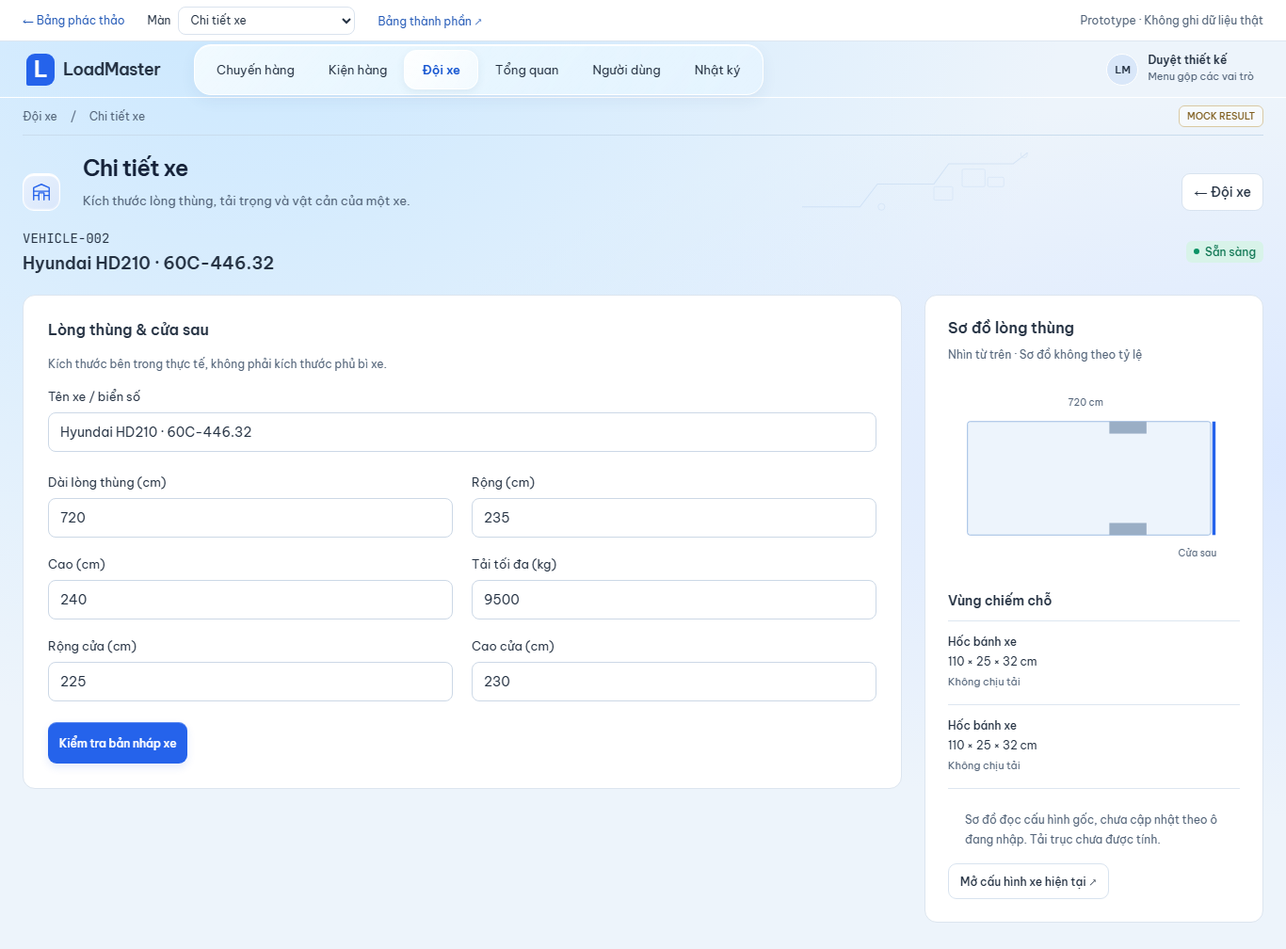
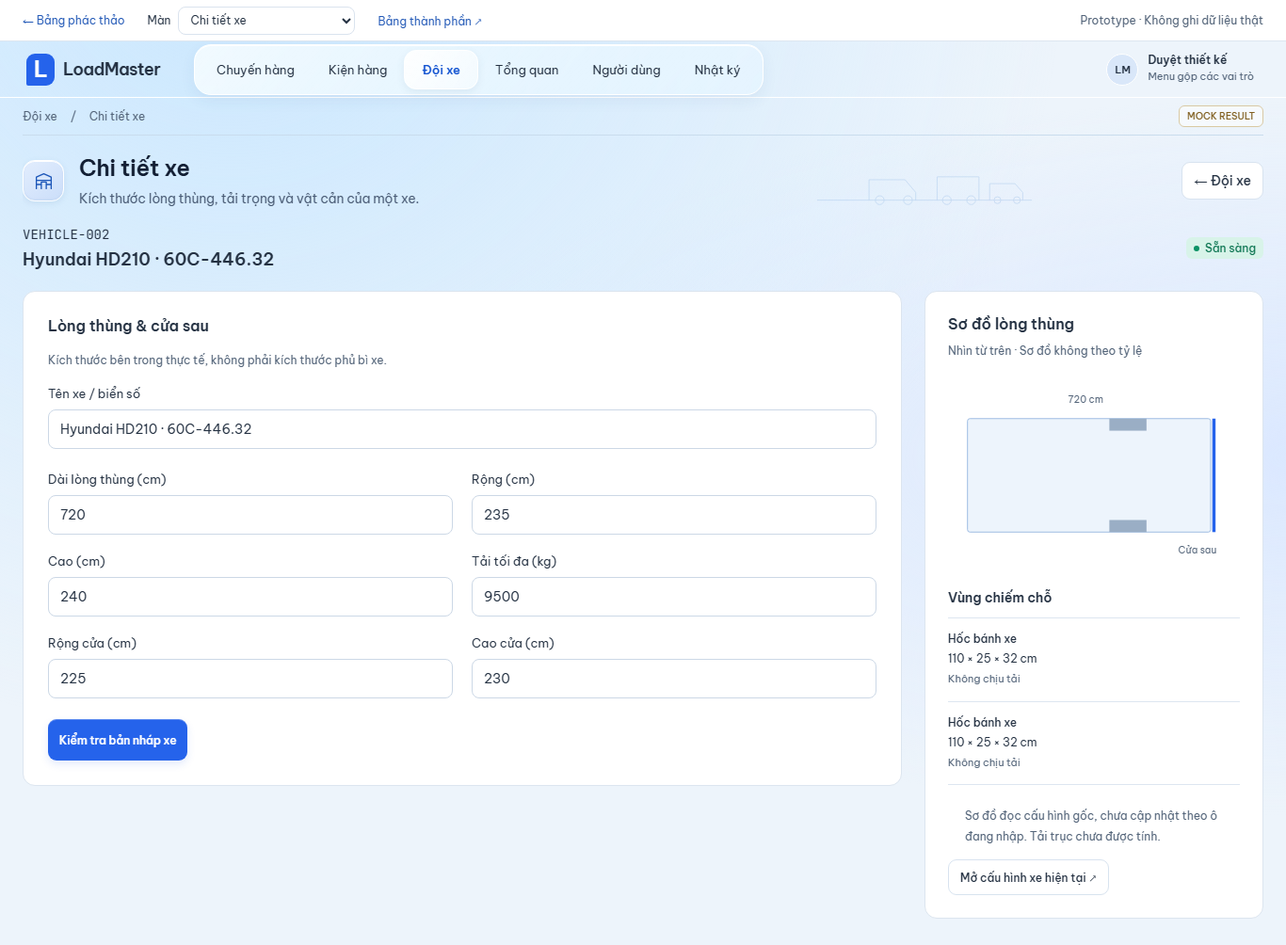
design(v2): nhận diện theo hoạ tiết, tăng tương phản và chiều sâu
Vòng polish thứ hai trên bố cục đã chốt. Không đổi layout, IA,
navigation hay bảng.

Gom .suite-title

Hai rule cùng tên nằm cách nhau bốn chục dòng: rule trên đặt
align-items flex-start, rule dưới ghi đè thành flex-end, và gap 14px bị
thay bằng 24px. Icon hero vì thế tụt xuống chân khối chữ. Nay còn một
rule duy nhất, căn giữa, có chú thích nói rõ vì sao.

Nhận diện màn bằng hình, không bằng màu

Mỗi nhóm màn một hoạ tiết SVG riêng: đoàn xe cho Đội xe, cột và đường
xu hướng cho Tổng quan, chồng thùng cho Kiện hàng, nhóm người và khiên
cho Người dùng, dòng thời gian và trang ghi cho Nhật ký. Icon hero giữ
nguyên tông xanh thương hiệu ở cả mười sáu màn — xanh lá và hổ phách đã
mang nghĩa trạng thái, mượn chúng làm nhận diện màn sẽ làm nhoè nghĩa.
Thêm data-screen trên hero để tinh chỉnh từng màn mà không cần layout riêng.

Hoạ tiết trước đây mờ 17% nên gần như biến mất trên nền xanh; nay 20–26%
tuỳ màn và cao 62px để không bị khung hero cắt mất.

Tương phản

Giãn thang mực và tăng độ đậm năm cặp tint khoảng 12%. Trước đây nền
nhạt, kính nhạt, tint nhạt và chữ nhạt cộng lại thành một màn trắng đều.
Bảng màu không đổi, chỉ phân bố lại tương phản.

Hero icon 40 lên 44px có viền trong và bóng rất nhẹ; ô số liệu có nền
kính dày hơn, icon 36 lên 41px.

Chiều sâu

Dòng đang chọn nền xanh 7,5% và mép trái dày hơn. Inspector nổi hơn
bảng rõ hơn, đầu panel có nền chuyển sắc riêng. Thanh tiến độ có rãnh
lõm và phần đã chạy chuyển sắc nhẹ theo đúng xanh thương hiệu.
[…]

diff --git a/design/v2/screen-ui.js b/design/v2/screen-ui.js
@@ -60,6 +60,17 @@ export const metricTile = ({ tone = 'blue', icon: name, value, label, note = '',
     : `<div class="kpi-tile">${body}</div>`;
 };
 export const metricGrid = items => `<section class="kpi-grid" aria-label="Số liệu tổng hợp">${items.map(metricTile).join('')}</section>`;
+const motifs = {
+  route: '<path d="M-10 96h96l26-34h84l22-30h96l28-22h114"/><rect x="238" y="40" width="34" height="26" rx="2"/><rect x="276" y="52" width="24" height="14" rx="2"/><rect x="196" y="66" width="28" height="20" rx="2"/><circle cx="118" cy="96" r="5"/><circle cx="330" cy="18" r="5"/>',
+  fleet: '<path d="M-10 100h440"/><path d="M96 100V58h74l22 26v16"/><circle cx="118" cy="100" r="9"/><circle cx="176" cy="100" r="9"/><path d="M236 100V52h86v48"/><circle cx="256" cy="100" r="9"/><circle cx="306" cy="100" r="9"/><path d="M344 100V66h52l16 18v16"/><circle cx="360" cy="100" r="7"/><circle cx="400" cy="100" r="7"/>',
+  chart: '<path d="M8 104h404"/><rect x="40" y="70" width="26" height="34"/><rect x="82" y="52" width="26" height="52"/><rect x="124" y="60" width="26" height="44"/><rect x="166" y="30" width="26" height="74"/><path d="M212 82l34-22 30 16 34-34 32 12 38-30"/><circle cx="212" cy="82" r="4"/><circle cx="380" cy="24" r="4"/>',
+  cargo: '<rect x="40" y="56" width="52" height="46"/><rect x="100" y="70" width="38" height="32"/><rect x="152" y="40" width="60" height="62"/><path d="M152 62h60M182 40v62"/><rect x="224" y="62" width="44" height="40"/><rect x="280" y="48" width="56" height="54"/><path d="M280 72h56"/><path d="M8 104h404"/>',
+  users: '<circle cx="70" cy="48" r="16"/><path d="M42 100c0-16 13-26 28-26s28 10 28 26"/><circle cx="160" cy="62" r="13"/><path d="M137 104c0-13 10-21 23-21s23 8 23 21"/><circle cx="246" cy="44" r="13"/><path d="M223 90c0-13 10-21 23-21s23 8 23 21"/><path d="M86 56h60M176 60l56-12"/><path d="M300 34v40l30 16 30-16V34l-30-16Z"/>',
+  audit: '<path d="M30 20v88"/><path d="M30 34h18M30 56h18M30 78h18M30 100h18"/><rect x="82" y="22" width="86" height="66" rx="3"/><path d="M96 42h58M96 56h58M96 70h34"/><rect x="200" y="34" width="86" height="66" rx="3"/><path d="M214 54h58M214 68h58M214 82h34"/><path d="M312 56h46M338 38l24 18-24 18"/>',
+};
+// Mỗi màn chọn một hoạ tiết; màn không khai báo dùng hoạ tiết tuyến mặc định.
+const screenMotif = { fleet: 'fleet', vehicle: 'fleet', dashboard: 'chart', cargo: 'cargo', users: 'users', profile: 'users', audit: 'audit' };
+const heroMotif = screen => `<svg class="hero-motif" viewBox="0 0 420 120" fill="none" stroke="currentColor" stroke-width="1.6" stroke-linecap="round" stroke-linejoin="round" aria-hidden="true">${motifs[screenMotif[screen] ?? 'route']}</svg>`;
 export function reviewBar(screen) {
   return `<div class="suite-review"><a href="./sketchbook.html">← Bảng phác thảo</a><label>Màn <select id="screen-picker">${Object.entries(screenNames).map(([key, label]) => `<option value="${key}" ${key === screen ? 'selected' : ''}>${label}</option>`).join('')}</select></label><a href="${href('components')}">Bảng thành phần ↗</a><span>Prototype · Không ghi dữ liệu thật</span></div>`;
 }
@@ -78,9 +89,9 @@ export function shell(screen, content, action = '') {
   const trail = parentLabel && parent !== screen
     ? `<a href="${href(parent)}">${parentLabel}</a><span>/</span><span>${screenNames[screen]}</span>`
     : `<span>${screenNames[screen]}</span>`;
-  const motif = '<svg class="hero-motif" viewBox="0 0 420 120" fill="none" aria-hidden="true"><path d="M-10 96h96l26-34h84l22-30h96l28-22h114" stroke="currentColor" stroke-width="1.5"/><rect x="238" y="40" width="34" height="26" rx="2" stroke="currentColor"/><rect x="276" y="52" width="24" height="14" rx="2" stroke="currentColor"/><rect x="196" y="66" width="28" height="20" rx="2" stroke="currentColor"/><circle cx="118" cy="96" r="5" stroke="currentColor"/><circle cx="330" cy="18" r="5" stroke="currentColor"/></svg>';
+  const motif = heroMotif(screen);
   const lede = screenLede[screen] ? `<p class="suite-lede">${screenLede[screen]}</p>` : '';
-  return `${reviewBar(screen)}<div class="suite-shell"><header class="suite-rail"><a class="brand" href="${href('trips')}"><span class="brand-mark">L</span>LoadMaster</a><nav class="glass-nav suite-nav" aria-label="Điều hướng chính">${navPrimary.map(([key, label]) => `<a href="${href(key)}" ${key === parent ? 'aria-current="page"' : ''}>${label}</a>`).join('')}</nav><a class="suite-person" href="${href('profile')}"><span class="avatar">LM</span><span><strong>Duyệt thiết kế</strong><small>Menu gộp các vai trò</small></span></a></header><div class="suite-work"><nav class="suite-top" aria-label="Đường dẫn"><span class="breadcrumb">${trail}</span>${badge('MOCK RESULT', 'mock')}</nav><main class="suite-main"><header class="suite-title">${motif}<span class="hero-icon">${icon(screenIcon[screen] ?? 'grid', 22)}</span><div class="hero-text"><h1>${screenNames[screen]}</h1>${lede}</div><div class="hero-actions">${action}</div></header>${content}</main></div></div>`;
+  return `${reviewBar(screen)}<div class="suite-shell"><header class="suite-rail"><a class="brand" href="${href('trips')}"><span class="brand-mark">L</span>LoadMaster</a><nav class="glass-nav suite-nav" aria-label="Điều hướng chính">${navPrimary.map(([key, label]) => `<a href="${href(key)}" ${key === parent ? 'aria-current="page"' : ''}>${label}</a>`).join('')}</nav><a class="suite-person" href="${href('profile')}"><span class="avatar">LM</span><span><strong>Duyệt thiết kế</strong><small>Menu gộp các vai trò</small></span></a></header><div class="suite-work"><nav class="suite-top" aria-label="Đường dẫn"><span class="breadcrumb">${trail}</span>${badge('MOCK RESULT', 'mock')}</nav><main class="suite-main"><header class="suite-title" data-screen="${screen}">${motif}<span class="hero-icon">${icon(screenIcon[screen] ?? 'grid', 21)}</span><div class="hero-text"><h1>${screenNames[screen]}</h1>${lede}</div><div class="hero-actions">${action}</div></header>${content}</main></div></div>`;
 }
 export function mobileShell(screen, content, footer = '') {
   return `${reviewBar(screen)}<div class="mobile-stage"><aside class="mobile-notes"><span class="suite-caption">Phác thảo mobile / Android trước</span><h1>${screenNames[screen]}</h1><p>Cùng nhận diện với web. Một việc chính trên mỗi màn, nút lớn, không cần thao tác hover.</p><nav>${link('Tài xế', 'driver')}${link('Kho', 'warehouse')}${link('Gửi lại', 'queue')}</nav><small>Các thao tác chỉ đổi trạng thái mẫu trong trang. Chưa là app Flutter và chưa gửi dữ liệu.</small></aside><div class="phone-app"><header class="phone-header"><a href="${href(screen === 'queue' ? 'driver' : 'trips')}" aria-label="Quay lại">←</a><strong>${screenNames[screen]}</strong>${badge('Mẫu', 'info')}</header>${content}${footer ? `<footer class="phone-actions">${footer}</footer>` : ''}</div></div>`;

diff --git a/design/v2/screens.css b/design/v2/screens.css
@@ -1,26 +1,36 @@
 :where(.screen-suite) {
-  --ink-strong: #16233a; --ink-1: #243142; --ink-2: #51627a; --ink-3: #7a8a9f;
-  --tint-blue: #e6effc; --tint-blue-fg: #1d54ad;
-  --tint-green: #dcf2e7; --tint-green-fg: #0f7454;
-  --tint-amber: #fdeed2; --tint-amber-fg: #8a5606;
-  --tint-violet: #eae9fb; --tint-violet-fg: #4b45a6;
-  --tint-slate: #e9eef5; --tint-slate-fg: #566f8c;
+  --ink-strong: #131f34; --ink-1: #1f2c3e; --ink-2: #4a5c75; --ink-3: #71829a;
+  --tint-blue: #dce8fb; --tint-blue-fg: #1a4da3;
+  --tint-green: #d1ecde; --tint-green-fg: #0c6b4c;
+  --tint-amber: #fce6c2; --tint-amber-fg: #85500a;
+  --tint-violet: #e2e0fa; --tint-violet-fg: #443e9e;
+  --tint-slate: #e1e8f1; --tint-slate-fg: #4e6681;
 }
 .screen-suite { background: #edf3fb; color: var(--ink); font-size: 14px; }
 
 /* ---- Hero dùng chung: icon nhận diện màn + tiêu đề + hoạ tiết tuyến rất nhẹ ---- */
-.suite-title { position: relative; display: flex; align-items: flex-start; gap: 14px; overflow: hidden; }
-.hero-icon { display: grid; place-items: center; width: 40px; height: 40px; margin-top: 1px; border-radius: 12px; border: 1px solid #fff; background: linear-gradient(140deg,#e9f1fd,#d9e7fb); box-shadow: var(--glass-edge); color: var(--blue); flex-shrink: 0; }
+/* Một nguồn duy nhất cho hàng tiêu đề. Trước đây rule này bị một rule khác phía
+   dưới ghi đè align-items thành flex-end, nên icon tụt xuống chân khối chữ. */
+.suite-title {
+  position: relative; display: flex; align-items: center; justify-content: space-between;
+  gap: 16px; margin-bottom: 18px; overflow: hidden;
+}
+.suite-title > .hero-text { flex: 1 1 auto; }
+.hero-icon { display: grid; place-items: center; width: 44px; height: 44px; border-radius: 13px; border: 1px solid #ffffff; background: linear-gradient(140deg,#e2edfd,#cbdefa); box-shadow: inset 0 1px 0 #fff,inset 0 -1px 2px #b7cdec80,0 2px 6px #4e79a51f; color: #1c56b8; flex-shrink: 0; }
 .hero-text { flex: 1; min-width: 0; }
-.hero-text h1 { color: var(--ink-strong); }
+.hero-text h1 { color: var(--ink-strong); letter-spacing: -.35px; }
 .hero-actions { position: relative; z-index: 1; display: flex; align-items: center; gap: 10px; flex-shrink: 0; }
-.hero-motif { position: absolute; right: 190px; top: -14px; width: 300px; height: 92px; color: #6f9fd8; opacity: .17; pointer-events: none; }
+/* Hoạ tiết nhận diện màn: thấy được khi nhìn, không tranh chỗ với tiêu đề. */
+.hero-motif { position: absolute; right: 210px; top: 50%; translate: 0 -50%; width: 300px; height: 62px; color: #5b93d4; opacity: .26; pointer-events: none; }
+[data-screen=dashboard] .hero-motif { opacity: .24; }
+[data-screen=audit] .hero-motif { opacity: .2; right: 230px; }
+[data-screen=users] .hero-motif { opacity: .22; }
 
 /* ---- Ô số liệu dùng chung cho mọi màn có phần tổng hợp ---- */
 .kpi-grid { display: grid; grid-template-columns: repeat(auto-fit,minmax(200px,1fr)); gap: 12px; margin-bottom: 16px; }
 .kpi-action { text-align: left; cursor: pointer; transition: border-color 140ms, box-shadow 140ms; }
-.kpi-action:hover { border-color: #bed4f2; box-shadow: var(--glass-edge),0 8px 20px #4e79a520; }
-.kpi-tile small { display: block; margin-top: 2px; font-size: 11px; color: var(--ink-3); line-height: 1.5; }
+.kpi-action:hover { border-color: #b6cff2; box-shadow: var(--glass-edge),0 10px 24px #4e79a52e; }
+.kpi-tile small { display: block; margin-top: 3px; font-size: 11.5px; color: var(--ink-3); line-height: 1.5; }
 .kpi-icon.blue { background: var(--tint-blue); color: var(--tint-blue-fg); }
 .kpi-icon.green { background: var(--tint-green); color: var(--tint-green-fg); }
 .kpi-icon.amber { background: var(--tint-amber); color: var(--tint-amber-fg); }
@@ -46,9 +56,8 @@
 .suite-work { min-width: 0; }
 .suite-top { display: flex; align-items: center; justify-content: space-between; min-height: 40px; margin: 0 24px; border-bottom: 1px solid #c9dced; font-size: 12px; color: var(--muted); }
 .suite-main { padding: 18px 24px 28px; }
-.suite-title { display: flex; justify-content: space-between; align-items: flex-end; margin-bottom: 20px; gap: 24px; }
 .suite-title h1 { font-size: 24px; margin: 0; }
-.suite-lede { margin: 6px 0 0; max-width: 62ch; color: var(--muted); font-size: 13px; line-height: 1.7; }
+.suite-lede { margin: 5px 0 0; max-width: 66ch; color: var(--ink-2); font-size: 13.5px; line-height: 1.62; }
 .suite-title .button { min-height: 40px; font-size: 14px; flex-shrink: 0; }
 /* Khối tổng hợp dùng chung: kính, số cùng màu mực, đơn vị nhỏ hơn. */
 .summary-block { display: flex; padding: 18px 24px; border: 1px solid #fff; border-radius: 16px; background: var(--glass-fill); box-shadow: var(--glass-edge),var(--glass-lift); margin-bottom: 22px; }
@@ -66,12 +75,12 @@
 /* ---- Danh sách chuyến ---- */
 /* KPI: ba ô đếm được + một ô ngữ cảnh. Ngày không phải số đo nên nhẹ hơn hẳn. */
 .kpi-grid.kpi-4 { grid-template-columns: repeat(3,minmax(0,1fr)) minmax(300px,1.1fr); }
-.kpi-tile { display: flex; align-items: center; gap: 14px; min-height: 84px; padding: 15px 18px; border: 1px solid white; border-radius: 15px; background: var(--glass-fill); backdrop-filter: blur(9px) saturate(1.35); box-shadow: var(--glass-edge),var(--glass-lift); }
+.kpi-tile { display: flex; align-items: center; gap: 14px; min-height: 84px; padding: 14px 18px; border: 1px solid #ffffff; border-radius: 15px; background: linear-gradient(118deg,#ffffffc4,#ffffff5c); backdrop-filter: blur(10px) saturate(1.45); box-shadow: var(--glass-edge),0 7px 18px #4e79a51c; }
 .kpi-tile > div { display: grid; gap: 3px; min-width: 0; }
 .kpi-tile strong { color: var(--ink-strong); font-size: 26px; font-weight: 600; font-variant-numeric: tabular-nums; line-height: 1.1; }
 .kpi-tile strong em { margin-left: 5px; font-style: normal; font-size: 14px; font-weight: 400; color: var(--ink-2); }
 .kpi-tile span { font-size: 13px; color: var(--ink-2); line-height: 1.45; }
-.kpi-icon { display: grid; place-items: center; width: 36px; height: 36px; border-radius: 10px; flex-shrink: 0; }
+.kpi-icon { display: grid; place-items: center; width: 41px; height: 41px; border-radius: 12px; box-shadow: inset 0 0 0 1px #ffffff9c; flex-shrink: 0; }
 /* Ô ngữ cảnh: cùng hệ kính với ba ô kia nhưng nhạt hơn một bậc — nó là ngữ
    cảnh của kỳ báo cáo, không phải một chỉ số đọc được. */
 .kpi-context { background: linear-gradient(115deg,#ffffff7d,#ffffff2b); box-shadow: var(--glass-lift); }

diff --git a/design/v2/desktop-admin.js b/design/v2/desktop-admin.js
@@ -20,7 +20,7 @@ export function audit(){
   $('screen-root').innerHTML=shell('audit',metricGrid([{ tone:'blue', icon:'log', value:events.length, label:'Sự kiện trong snapshot', note:'Lịch sử mẫu neo ngày 22/09/2026' },{ tone:'slate', icon:'calendar', value:events.filter(e=>e.at.slice(0,10)===latestDay).length, label:`Sự kiện ngày ${latestDay.split('-').reverse().join('/')}`, note:'Ngày gần nhất có ghi nhận' },{ tone:'slate', icon:'clock', value:dateTime(events[0].at).split(' ')[0], label:'Ghi nhận gần nhất', note:'Chỉ đọc · không phát sinh từ prototype' }])+`<section class="paper"><div class="list-tools"><label class="search">${icon('search',16)}<input id="audit-search" placeholder="Tìm mã chuyến hoặc người thực hiện…" aria-label="Tìm nhật ký"></label><label class="tool-field">Nhóm<select id="audit-group" aria-label="Lọc nhóm sự kiện"><option value="all">Mọi nhóm</option><option value="trip">Chuyến hàng</option><option value="loading">Xếp hàng</option><option value="delivery">Giao hàng</option><option value="user">Tài khoản</option><option value="revision">Duyệt phương án</option></select></label></div><div id="audit-table"></div><div class="pagination"><span id="audit-count" aria-live="polite"></span><button id="audit-prev" class="button secondary">← Trước</button><button id="audit-next" class="button secondary">Sau →</button></div></section>${notice('115 sự kiện có trong seed, neo ngày 22/09/2026. Đây là lịch sử mẫu, không phải nhật ký mới phát sinh từ các prototype.')} ${dialog('audit-detail','Chi tiết sự kiện','<div id="audit-detail-body"></div>')}`, badge('Chỉ đọc','neutral'));
   const actor=e=>snapshot.users.find(u=>u.id===e.actorId)?.fullName??'Hệ thống';
   const roleOf=e=>{const u=snapshot.users.find(u=>u.id===e.actorId);return u?roleNames[u.role]:'Hệ thống';};
-  function render(){const filtered=events.filter(e=>normalize(e.target.id+' '+actor(e)+' '+actions[e.action]).includes(normalize($('audit-search').value))&&($('audit-group').value==='all'||e.action.split('.')[0]===$('audit-group').value));const rows=filtered.slice(page*15,page*15+15);$('audit-table').innerHTML=table(['Thời gian','Người thực hiện','Hành động','Đối tượng'],rows.map(e=>`<tr><td class="time-cell"><strong>${dateTime(e.at).split(' ')[0]}</strong><small>${dateTime(e.at).split(' ').slice(1).join(' ')}</small></td><td><span class="row-title">${actor(e)}<small>${roleOf(e)}</small></span></td><td><span class="cell-lead"><span class="cell-thumb ${actionTone[e.action.split('.')[0]]?.[0]??'slate'}">${icon(actionTone[e.action.split('.')[0]]?.[1]??'log',16)}</span><span class="row-title">${actions[e.action]??e.action}</span></span></td><td><button class="row-title mono" data-event="${e.id}">${e.target.id}<small>Xem chi tiết →</small></button></td></tr>`).join('')||'<tr><td colspan="4" class="empty">Không có sự kiện phù hợp.</td></tr>');$('audit-count').textContent=`${filtered.length? page*15+1:0}–${Math.min(page*15+15,filtered.length)} / ${filtered.length} sự kiện`;$('audit-prev').disabled=page===0;$('audit-next').disabled=(page+1)*15>=filtered.length;}
+  function render(){const filtered=events.filter(e=>normalize(e.target.id+' '+actor(e)+' '+actions[e.action]).includes(normalize($('audit-search').value))&&($('audit-group').value==='all'||e.action.split('.')[0]===$('audit-group').value));const rows=filtered.slice(page*15,page*15+15);$('audit-table').innerHTML=table(['Thời gian','Người thực hiện','Hành động','Đối tượng'],rows.map(e=>`<tr><td class="time-cell"><strong>${dateTime(e.at).split(' ')[0]}</strong><small>${dateTime(e.at).split(' ').slice(1).join(' ')}</small></td><td><span class="cell-lead"><span class="cell-thumb slate small-thumb">${initials(actor(e))}</span><span class="row-title">${actor(e)}<small>${roleOf(e)}</small></span></span></td><td><span class="cell-lead"><span class="cell-thumb ${actionTone[e.action.split('.')[0]]?.[0]??'slate'}">${icon(actionTone[e.action.split('.')[0]]?.[1]??'log',16)}</span><span class="row-title">${actions[e.action]??e.action}</span></span></td><td><button class="cell-lead" data-event="${e.id}"><span class="cell-thumb ${e.target.id.startsWith('US-')?'slate':'blue'} small-thumb">${icon(e.target.id.startsWith('US-')?'user':'truck',15)}</span><span class="row-title mono">${e.target.id}<small>Xem chi tiết →</small></span></button></td></tr>`).join('')||'<tr><td colspan="4" class="empty">Không có sự kiện phù hợp.</td></tr>');$('audit-count').textContent=`${filtered.length? page*15+1:0}–${Math.min(page*15+15,filtered.length)} / ${filtered.length} sự kiện`;$('audit-prev').disabled=page===0;$('audit-next').disabled=(page+1)*15>=filtered.length;}
   $('audit-search').oninput=$('audit-group').onchange=()=>{page=0;render();};$('audit-prev').onclick=()=>{page--;render();};$('audit-next').onclick=()=>{page++;render();};$('audit-table').onclick=e=>{const b=e.target.closest('[data-event]');if(!b)return;const row=events.find(r=>r.id===b.dataset.event);$('audit-detail-body').innerHTML=`<p>${actions[row.action]} · ${actor(row)}</p><p>${dateTime(row.at)} · <span class="mono">${row.target.id}</span></p><h3>Dữ liệu ghi nhận từ snapshot</h3><pre class="event-json">${escape(JSON.stringify(row.params,null,2))}</pre>${notice('Tên trường kỹ thuật được giữ trong phần kiểm tra dữ liệu dành cho quản trị.')}`;$('audit-detail').showModal();};render();
 }
 export function profile(){

diff --git a/design/v2/desktop.css b/design/v2/desktop.css
@@ -18,10 +18,10 @@
 .context-chip { display: inline-flex; align-items: center; min-height: 38px; padding: 0 12px; border: 1px solid #cfdcea; border-radius: 8px; background: #fff; font-size: 13px; color: var(--ink-1); }
 .desktop-table-scroll { overflow-x: auto; position: relative; }
 .desktop-table { width: 100%; border-collapse: collapse; min-width: 560px; table-layout: auto; }
-.desktop-table th { width: auto !important; height: 40px; background: #f5f8fc; color: var(--ink-2); font-weight: 600; font-size: 12px; padding: 0 14px; text-align: left; white-space: nowrap; border-block: 1px solid #e4ebf3; }
+.desktop-table th { width: auto !important; height: 40px; background: #f2f6fc; color: var(--ink-2); font-weight: 600; font-size: 12px; padding: 0 14px; text-align: left; white-space: nowrap; border-block: 1px solid #dfe8f3; }
 .desktop-table td { padding: 10px 14px; font-size: 13px; line-height: 1.5; border-bottom: 1px solid #e9eef5; vertical-align: middle; }
 .desktop-table tr:last-child td { border-bottom: 0; }
-.desktop-table tbody tr:hover { background: #f7faff; }
+.desktop-table tbody tr:hover { background: #f4f8ff; }
 .desktop-table small { display: block; font-size: 12px; color: var(--ink-3); margin-top: 3px; max-width: 240px; line-height: 1.45; }
 .desktop-table .num { font-family: 'JetBrains Mono',monospace; font-size: 13px; color: var(--ink-1); font-variant-numeric: tabular-nums; text-align: right; white-space: nowrap; }
 .row-title { display: block; text-align: left; background: none; padding: 0; font-size: 14px; font-weight: 500; line-height: 1.45; color: var(--ink-strong); }
@@ -33,14 +33,15 @@
 .cell-thumb.green { background: var(--tint-green); color: var(--tint-green-fg); }
 .cell-thumb.amber { background: var(--tint-amber); color: var(--tint-amber-fg); }
 .cell-thumb.violet { background: var(--tint-violet); color: var(--tint-violet-fg); }
+.cell-thumb.small-thumb { width: 28px; height: 28px; border-radius: 8px; font-size: 11px; font-weight: 600; }
 /* Ô trạng thái: badge trên, câu giải thích dưới — câu là ngữ cảnh, không phải nhãn thứ hai. */
 .status-cell { display: grid; gap: 4px; justify-items: start; }
-.selected-row { background: rgba(37,99,235,.055) !important; }
-.selected-row td { border-bottom-color: #cfdff6; }
-.selected-row td:first-child { box-shadow: inset 3px 0 #2563eb; }
+.selected-row { background: rgba(37,99,235,.075) !important; }
+.selected-row td { border-bottom-color: #c4d8f5; box-shadow: inset 0 1px 0 #c4d8f5; }
+.selected-row td:first-child { box-shadow: inset 3px 0 #2563eb,inset 0 1px 0 #c4d8f5; }
 .source-note { padding: 14px 18px; color: var(--muted); font-size: 12px; line-height: 1.8; }
-.editor-paper { padding: 0 20px 20px; background: #fff; border: 1px solid #d5e2f0; border-radius: 12px; box-shadow: 0 6px 18px #4e79a514; }
-.editor-paper > .section-heading, .inspector-head { margin: 0 -20px 18px; padding: 16px 20px; border-bottom: 1px solid #e9eef5; }
+.editor-paper { padding: 0 20px 20px; background: #fff; border: 1px solid #ccdcee; border-radius: 12px; box-shadow: 0 8px 22px #4e79a51f; }
+.editor-paper > .section-heading, .inspector-head { margin: 0 -20px 18px; padding: 16px 20px; background: linear-gradient(180deg,#f7faff,#fff); border-bottom: 1px solid #e3ebf5; border-radius: 11px 11px 0 0; }
 .editor-paper .section-heading { align-items: center; }
 .editor-code { margin: 20px 0; font-size: 12px; color: var(--muted); }
 .editor-paper .field { margin-top: 18px; }
@@ -107,7 +108,7 @@ input[type=checkbox],input[type=radio] { accent-color: var(--blue); width: 17px;
 .inspector-head .quiet-note { margin: 3px 0 6px; font-size: 12px; }
 .inspector-head strong { display: block; font-size: 14px; margin-top: 4px; }
 .inspector-head small { display: block; margin-top: 3px; font-size: 12px; color: var(--ink-3); line-height: 1.45; }
-.inspector-section { margin: 22px 0 2px; padding-bottom: 8px; border-bottom: 1px solid #eef2f7; font-size: 13px; font-weight: 600; color: var(--ink-strong); }
+.inspector-section { margin: 22px 0 2px; padding-bottom: 8px; border-bottom: 1px solid #e3ebf5; font-size: 13px; font-weight: 600; color: var(--ink-strong); }
 .editor-paper .inspector-section:first-of-type { margin-top: 0; }
 .chart-paper { padding: 20px; }
 .chart-paper .section-heading span { font-size: 13px; color: var(--ink-2); }
@@ -115,8 +116,8 @@ input[type=checkbox],input[type=radio] { accent-color: var(--blue); width: 17px;
 .status-bars { display: grid; gap: 15px; margin-top: 26px; }
 .status-bars > div { display: grid; grid-template-columns: 148px 1fr 22px 38px; align-items: center; gap: 14px; font-size: 13px; }
 .status-bars meter { width: 100%; height: 10px; border-radius: 5px; }
-meter::-webkit-meter-optimum-value { background: var(--blue); border-radius: 5px; }
-meter::-webkit-meter-bar { background: #e9eff8; border: 0; border-radius: 5px; }
+meter::-webkit-meter-optimum-value { background: linear-gradient(90deg,#3b78ee,#2563eb); border-radius: 5px; }
+meter::-webkit-meter-bar { background: #dfe8f4; border: 0; border-radius: 5px; box-shadow: inset 0 1px 2px #94aecc2e; }
 .fleet-ratio { display: flex; align-items: baseline; gap: 10px; margin: 22px 0 14px; }
 .fleet-ratio strong { font-size: 34px; font-weight: 600; color: var(--ink-strong); }
 .fleet-ratio span { color: var(--ink-2); font-size: 13px; }
